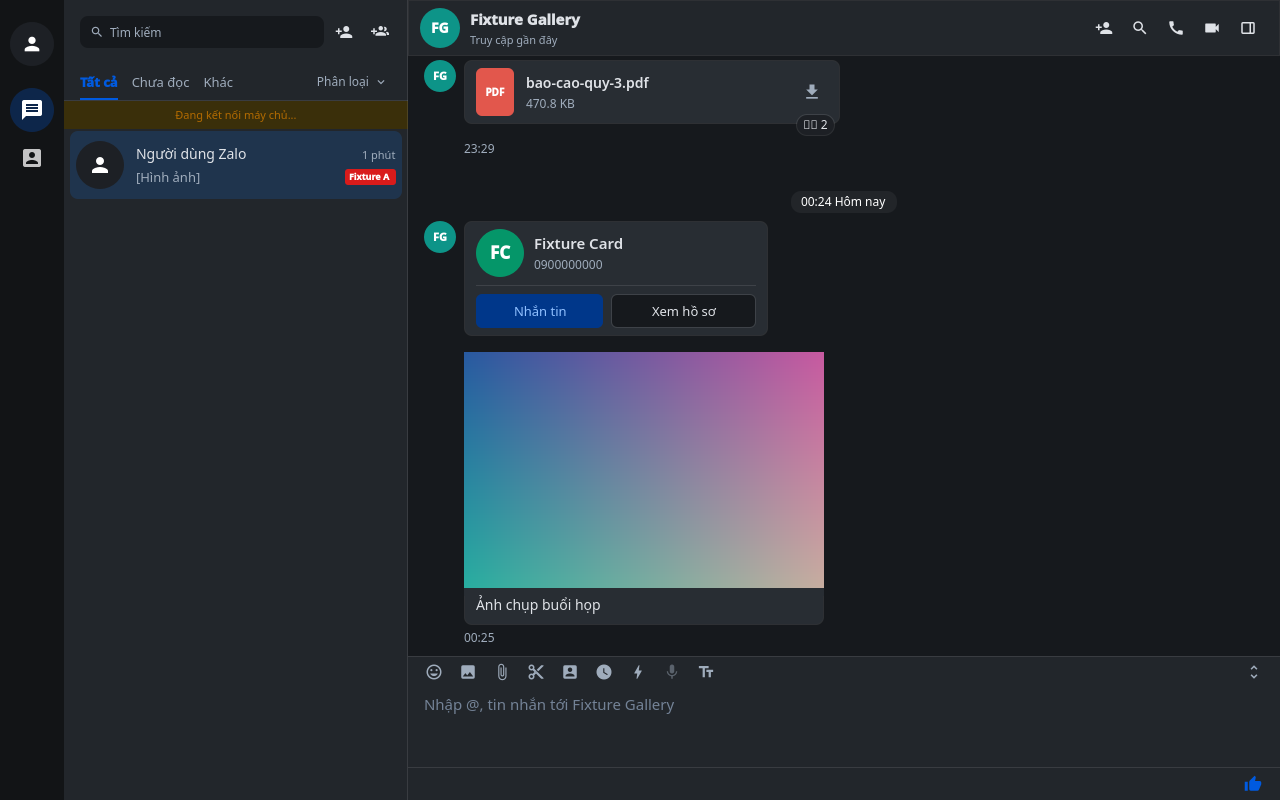
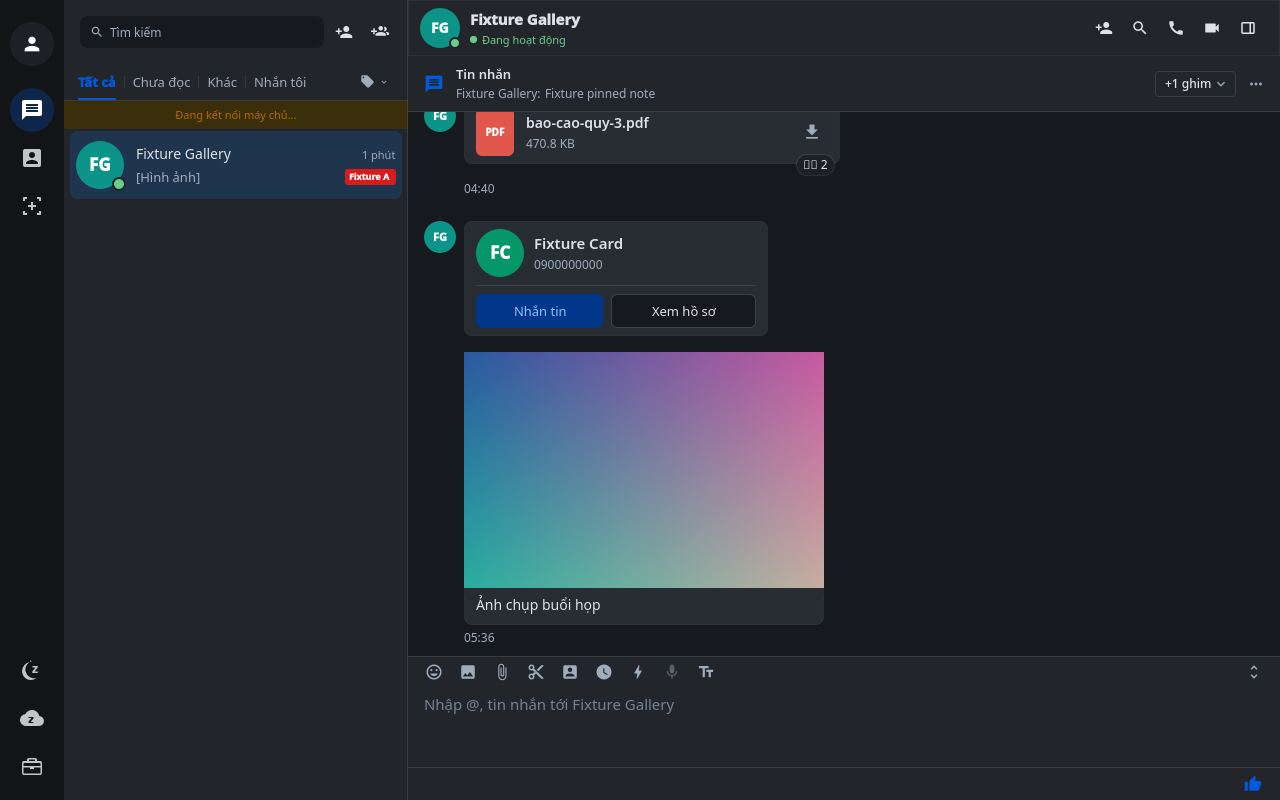
docs: refresh UI preview screenshots and rename architecture section to Performance

diff --git a/docs/index.html b/docs/index.html
@@ -1227,7 +1227,7 @@
       <nav aria-label="Điều hướng chính" data-en-aria="Main navigation">
         <ul class="nav-links" role="list">
           <li><a href="#features" data-en="Features">Tính năng</a></li>
-          <li><a href="#architecture" data-en="Performance &amp; Size">Hiệu năng &amp; Trọng lượng</a></li>
+          <li><a href="#architecture" data-en="Performance">Hiệu năng</a></li>
           <li><a href="#install" data-en="Install">Cài đặt</a></li>
           <li><a href="#scope" data-en="Support">Hỗ trợ</a></li>
         </ul>
@@ -1540,7 +1540,7 @@
     <section id="architecture" class="section">
       <div class="container">
         <div class="section-header">
-          <span class="section-eyebrow" data-en="Architecture &amp; Footprint">Kiến trúc &amp; Trọng lượng</span>
+          <span class="section-eyebrow" data-en="Performance">Hiệu năng</span>
           <h2 class="section-title" data-en="High performance &amp; lightweight footprint compared">So sánh hiệu năng &amp; độ nhẹ thực tế</h2>
           <p class="section-desc"
             data-en="Instead of shipping a whole browser engine (&gt; 200 MB) with dozens of heavy helper processes like the Electron-based Zalo PC, Zalos runs lean and native on Linux (~4.8 MB), sipping only 40–65 MB RAM.">

diff --git a/tests/test_system.cpp b/tests/test_system.cpp
@@ -1772,14 +1772,20 @@ private slots:
                                                          {"href", QUrl::fromLocalFile(picPath).toString()},
                                                          {"title", QString::fromUtf8("Ảnh chụp buổi họp")}}, now - 60000),
         };
+        client.setUserForTesting("u-gallery", "Fixture Gallery", "");
         emit session->messagesReceived(msgs, false, true);
         client.selectConversation("u-gallery", "Fixture Gallery", "");
         client.setMyUidForTesting("u-me");
-        client.pins()->applyListForTesting("u-gallery", QJsonObject{{"version", 1}, {"data", QJsonArray{
+        client.setOnlineIdsForTesting({"u-gallery"});
+        client.labels()->applyServer(QJsonObject{{"version", 1}, {"labelData", QJsonArray{
+            QJsonObject{{"id", 1}, {"text", "Fixture A"}, {"color", "#D91B1B"}, {"offset", 0}, {"conversations", QJsonArray{"u-gallery"}}},
+            QJsonObject{{"id", 2}, {"text", "Fixture B"}, {"color", "#4BC377"}, {"offset", 1}, {"conversations", QJsonArray{}}}}}});
+        const QJsonObject initialPins{{"version", 1}, {"data", QJsonArray{
             QString::fromUtf8(QJsonDocument(QJsonObject{{"id", 1}, {"type", 2}, {"params", QString::fromUtf8(QJsonDocument(QJsonObject{
                 {"global_msg_id", "9101"}, {"senderName", "Fixture Gallery"}, {"title", "Fixture pinned note"}}).toJson(QJsonDocument::Compact))}}).toJson(QJsonDocument::Compact)),
             QString::fromUtf8(QJsonDocument(QJsonObject{{"id", 2}, {"type", 2}, {"params", QString::fromUtf8(QJsonDocument(QJsonObject{
-                {"global_msg_id", "9102"}, {"senderName", "Me"}, {"title", "Second pin"}}).toJson(QJsonDocument::Compact))}}).toJson(QJsonDocument::Compact))}}}, false);
+                {"global_msg_id", "9102"}, {"senderName", "Me"}, {"title", "Second pin"}}).toJson(QJsonDocument::Compact))}}).toJson(QJsonDocument::Compact))}}};
+        client.pins()->applyListForTesting("u-gallery", initialPins, false);
         client.handleReactionsForTesting(QJsonArray{
             QJsonObject{{"uidFrom", "u-gallery"}, {"idTo", "u-me"}, {"content", QJsonObject{{"rIcon", "/-heart"}, {"rType", 5},
                 {"rMsg", QJsonArray{QJsonObject{{"gMsgID", "9104"}}}}}}},
@@ -1807,6 +1813,7 @@ private slots:
         for (int mode : {0, 1}) {
             themeMgr.setThemeMode(mode);
             const QString suffix = mode ? "dark" : "light";
+            client.pins()->applyListForTesting("u-gallery", initialPins, false);
             client.setCurrentNavigationTab("messages");
             shot("chat_" + suffix);
             if (mode == 0) {

diff --git a/src/core/network/zalo_client.h b/src/core/network/zalo_client.h
@@ -511,6 +511,12 @@ public:
         emit restoringSessionChanged();
         emit loginStateChanged();
     }
+    void setOnlineIdsForTesting(const QSet<QString>& ids) {
+        m_onlineIds = ids;
+        m_conversationModel->setOnlineIds(ids);
+        m_contactModel->setOnlineIds(ids);
+        emit conversationStatusChanged();
+    }
 #endif
 
     Q_INVOKABLE QVariantList groupMembers(const QString& groupId);
